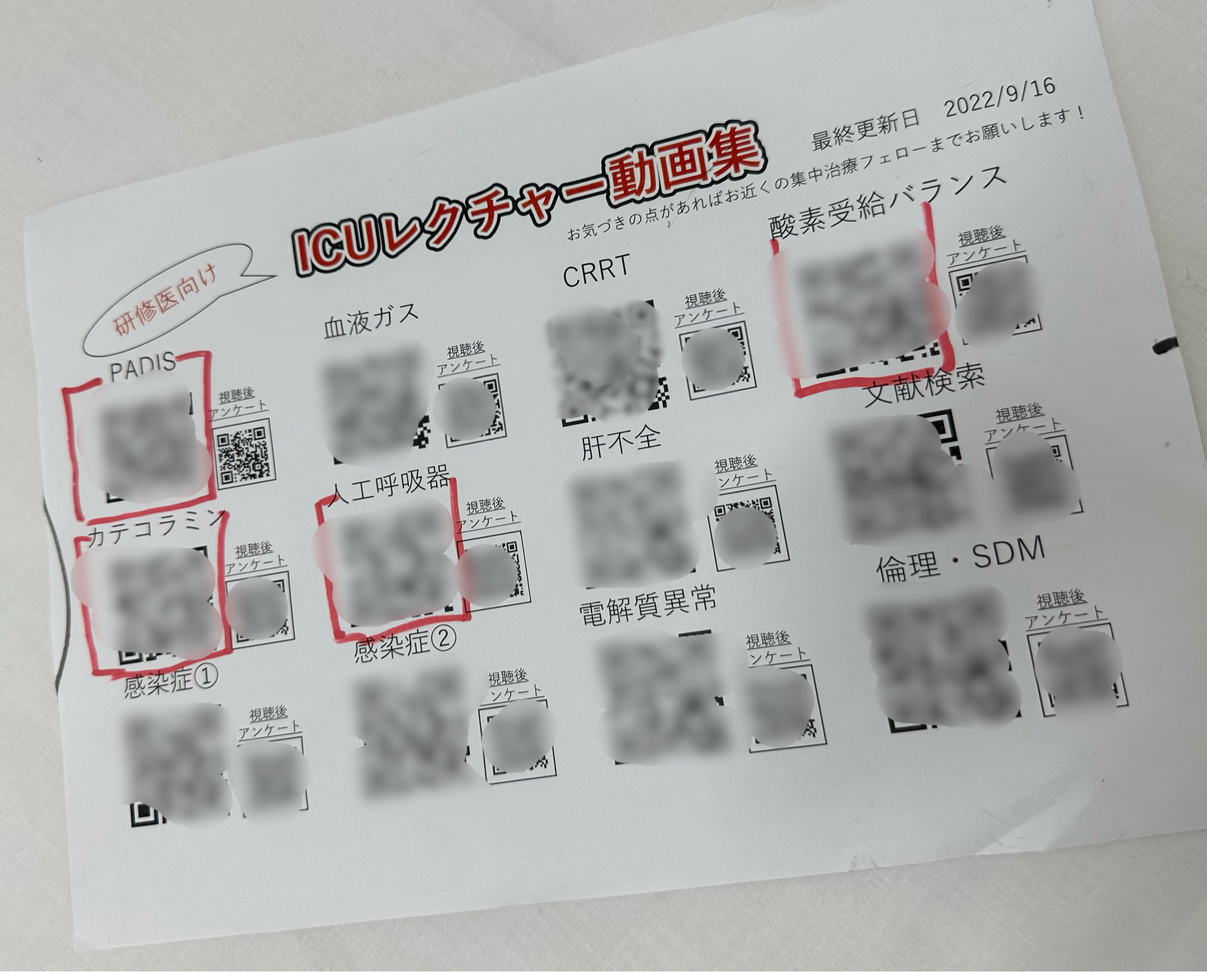
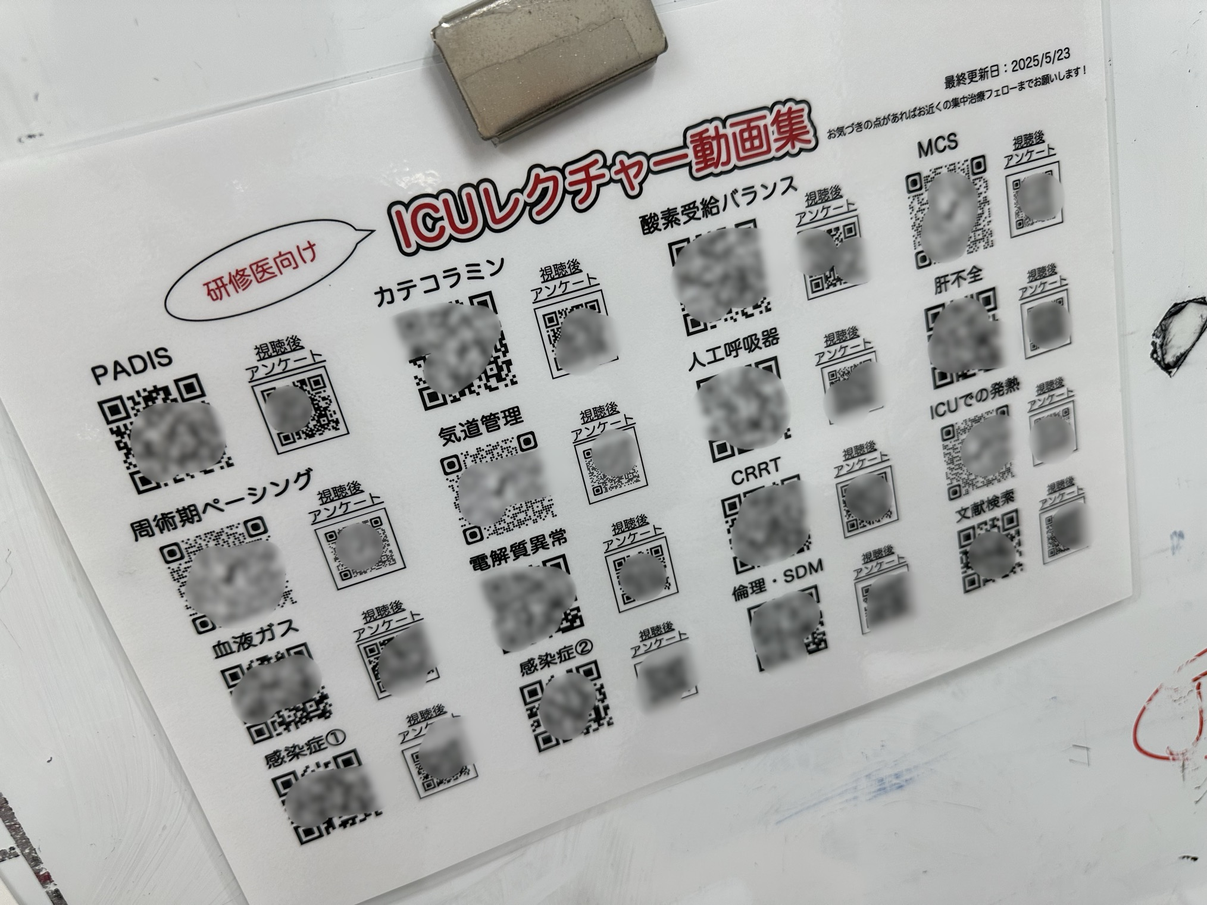
2025年度の変更（フェロー2年目教育、e-learning）
- 集中治療フェロー2年目勉強会内容を変更した。
- 写真を変更した（e-learningのQRコード表）

diff --git a/education/for_fellows/education_for_2nd_fellows.md b/education/for_fellows/education_for_2nd_fellows.md
@@ -11,31 +11,38 @@
 2. [「学習支援者としての役割」](#2-学習支援者としての役割)
 3. [「医学教育とは」](#3-医学教育とは)
 4. [「評価とは」](#4-評価とは)
-
+5. [「私たちの教育を見直す」](#5-私たちの教育を見直す)
 
 ## 内容
 ### 1. 「医療提供者として必要なスキルの学習と、その学習支援」
-「21世紀型スキル」の4領域10個のスキルを暗記してください。  
-その上で、オンライン学習会では自分自身や所属団体における教育活動において、どのスキルの学習が支援できているか、どのスキルの会得の支援が困難かを考察してもらいます。  
+自習では、『21世紀型スキル/KSAVEモデル』と『OECD ラーニング・コンパス』の共通点を概観しておいてください。その中で「21世紀型スキル」の4領域10個のスキルを暗記してください。  
+オンライン学習会では自分自身や所属団体における教育活動において、どのスキルの学習が支援できているか、どのスキルの会得の支援が困難かを考察してもらいます。  
 また、KSAVEモデルの、特に「V」と「E」に対する学習支援に関して、具体的に何をすれば良いかを考察をしていただきます。  
-上記について、各自回答を用意しておいてください。  
 
 - 課題図書
-  - 「21世紀型スキル」という単語をググるだけでいいです。
+  - 「21世紀型スキル」、「OECD Education 2030」を調べておく
+  
 - 参考図書
   - [「21世紀型スキル: 学びと評価の新たなかたち」](https://www.amazon.co.jp/dp/4762828572)P.グリフィン、他（北大路書房）
+  - [「OECD Education 2030プロジェクトが描く教育の未来」](https://www.amazon.co.jp/dp/4623090442) 白井俊（ミネルヴァ書房）
 
+- 参考HP
+  - [「医学教育モデル・コア・カリキュラム（令和4年度改訂版）」](https://www.mext.go.jp/a_menu/koutou/iryou/mext_00005.html)文部科学省 モデル・コア・カリキュラム改訂に関する連絡調整委員会
+  - [「集中治療科専攻医研修マニュアル」](https://www.jsicm.org/certification/pdf/Subsp-Specialist-Manual_20231215.pdf)
 
 ### 2. 「学習支援者としての役割」
-課題図書の一部分を読んで、V.V. ダヴィドフの6つの学習ステップを暗記しておいてください。  
+自習では、成人学習理論と、エンゲストロームが示した6つの学習ステップを概観しておいてください。  
 その上で、学習支援者の役割は何か、学習支援者には何ができるかに関して、考察してもらいます。具体的には、「集中治療フェロー1年目が集中治療を実践できるようになるために、学習支援者としてどのような行動を実践すれば良いか」を考えてください。  
 また、「"正しい指導医像"を設定するのは正しいのか」についても、同時に考察しておいてください。
-オンライン学習会で回答を伺います。  
-
+ 
 - 課題図書
+  - [「成人教育学の基本原理と提起 -職業人教育への示唆-」](https://www.jstage.jst.go.jp/article/mededjapan1970/38/3/38_3_151/_pdf)渡邊 洋子. 医学教育 2007,38(3):151-160
+  - [「エンゲストロームの学習プロセス」](https://www.mext.go.jp/b_menu/shingi/chukyo/chukyo3/060/siryo/__icsFiles/afieldfile/2016/02/04/1366512_13.pdf)文部科学省 教育課程部会 理科ワーキンググループ. 平成28年1月14日
+
+
+- 参考図書
   - [「変革を生む研修のデザイン ―仕事を教える人への活動理論」](https://www.amazon.co.jp/dp/4902455242/)ユーリア　エンゲストローム（鳳書房）
 p40-47 第2章 よい学習とは何か 9 学習サイクルの進行
-- 参考図書
   - [「ワークショップと学び3 まなびほぐしのデザイン」](https://www.amazon.co.jp/dp/4130530836/)苅宿俊文、他（東京大学出版会）
 
 
@@ -55,12 +62,22 @@ iii-V 目次
 
 
 ### 4. 「評価とは」
-学習・教育の評価をどうすれば良いのか。診断的評価、形成的評価、総括的評価の違いを元に、ネット検索して理解してください。そして、勉強会までに、同学年のフェローに対して、診断的評価、形成的評価、総括的評価を必ず実践しておいてください。
+学習・教育の評価をどうすれば良いのか。診断的評価、形成的評価、総括的評価の違いを元に、ネット検索して理解してください。そして、勉強会までに、同学年のフェローに対して、診断的評価、形成的評価、総括的評価を*必ず*実践しておいてください。
 
 - 課題図書
-  - 診断的評価、形成的評価、総括的評価を検索する
+  - 「診断的評価」「形成的評価」「総括的評価」を調べておく
 - 参考図書
   - [「医学教育を学び始める人のために」](https://www.amazon.co.jp/dp/4884123697/)RM Harden、JM Laidlaw（篠原出版新社）
   - [「ACP Teaching Medicine Series: 7 Book Boxed Set」](https://www.amazon.co.jp/dp/1938921127/)J Ende（American College of Physicians）
   - ACGME webサイト（https://www.acgme.org）
   - COBATLICE webサイト（http://www.cobatrice.org）
+
+
+### 5. 「私たちの教育を見直す」
+これまでの内容を踏まえて、現在の教育体制について話し合ってみましょう。  
+そして、これからの学習者に向けてどう提示することができるのかを考えてみましょう。
+
+- 参考図書
+  - [「医学教育モデル・コア・カリキュラム（令和4年度改訂版）」](https://www.mext.go.jp/b_menu/shingi/chousa/koutou/116/toushin/mext_01280.html)文部科学省 モデル・コア・カリキュラム改訂に関する連絡調整委員会
+  - [「日本専門医機構認定サブスペシャルティ領域専門研修制度」](https://www.jsicm.org/certification/subsp-kanri.html)日本専門医機構・日本集中治療医学会
+  - [「集中治療科専攻医研修マニュアル」](https://www.jsicm.org/certification/pdf/Subsp-Specialist-Manual_20231215.pdf)日本専門医機構・日本集中治療医学会
